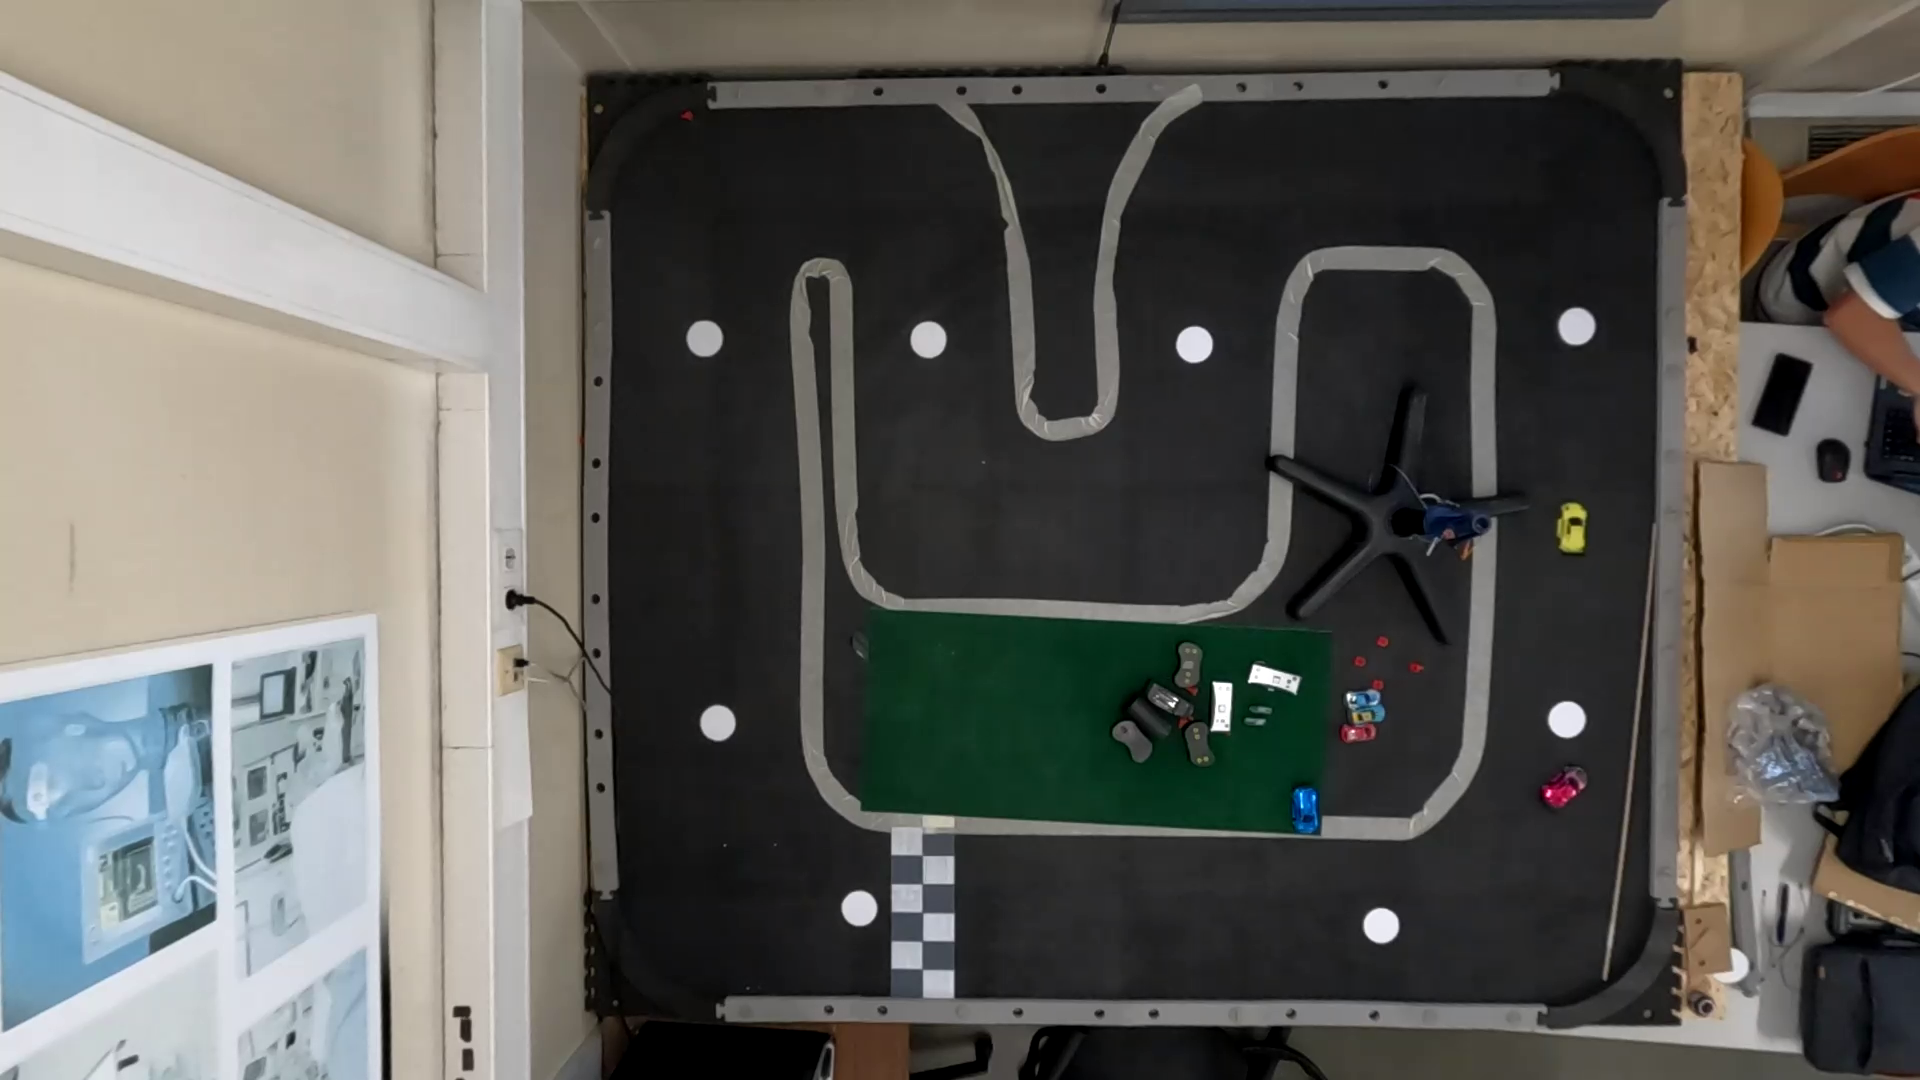
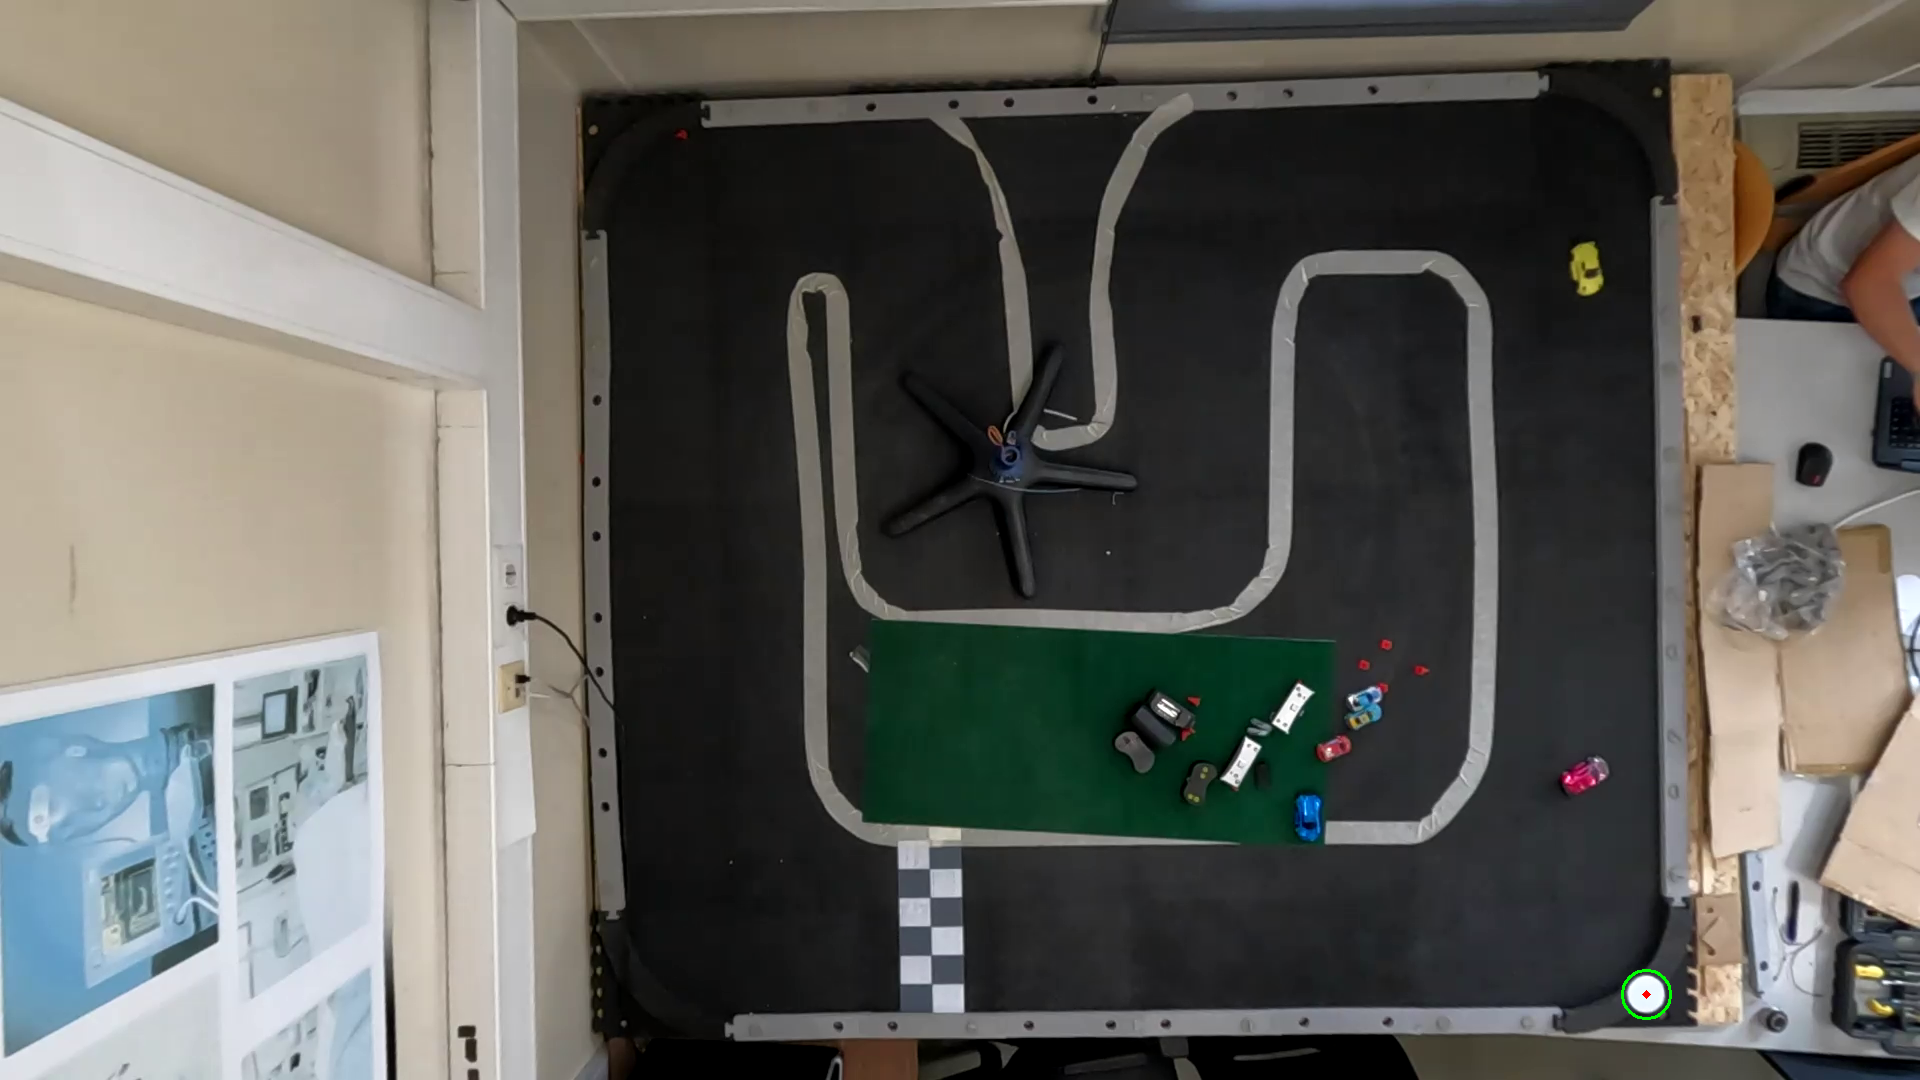
px2mm working in live video

diff --git a/src/Camera/camera.py b/src/Camera/camera.py
@@ -12,6 +12,7 @@ from utils.getCameras import get_available_cameras
 #pip install pygrabber==0.1
 from pygrabber.dshow_graph import FilterGraph
 from UDPsender import UDPSender
+from Trajectory import Trajectory
 
 class camera:
     def __init__(self, cameraConfig: str="camera", cameraName: str="GoPro Webcam", windowName: str="Frame") -> None:
@@ -333,45 +334,42 @@ class camera:
     def find_circle(self, img):
         # Convert image to gray
         gray = cv2.cvtColor(img, cv2.COLOR_BGR2GRAY)
-        #show_image("Gray image", gray)
 
         # Adaptive thresholding for better binary conversion
         img_bin = cv2.adaptiveThreshold(gray, 255, cv2.ADAPTIVE_THRESH_GAUSSIAN_C, cv2.THRESH_BINARY, 11, 2)
-        #show_image("Binary Image", img_bin)
 
         # Opening binary image to remove noise around the circles
         close_kernel = np.ones((3, 3), np.uint8)
         img_dilated = cv2.dilate(img_bin, close_kernel, iterations=1)
         img_closed = cv2.erode(img_dilated, close_kernel, iterations=1)
-        #show_image("Opened Image", img_closed)
 
         # Find circles using Hough Circle Transform
         circles = cv2.HoughCircles(
             img_closed, 
             cv2.HOUGH_GRADIENT, 
             dp=1.0, 
-            minDist=400, # Adjusted minimum distance between circles
+            minDist=100,  # Adjusted minimum distance between circles
             param1=50, 
-            param2=30, 
-            minRadius=10,
-            maxRadius=30
+            param2=25,  # Adjusted parameter for circle detection sensitivity
+            minRadius=15,
+            maxRadius=25
         )
 
         # List to store the centers of the circles
-        centers = np.array([])
+        centers = []
 
         # If circles are detected, draw them on the original image and store the centers
         if circles is not None:
             circles = np.uint16(np.around(circles))
             for i in circles[0, :]:
                 center = np.array([i[0], i[1]])
-                centers.append(center)
+                centers.append(center.tolist())  # Append as a list
                 # Draw the outer circle
-                cv2.circle(img, center, i[2], (0, 255, 0), 2)
+                cv2.circle(img, (i[0], i[1]), i[2], (0, 255, 0), 2)
                 # Draw the center of the circle
-                cv2.circle(img, center, 2, (0, 0, 255), 3)
-        
-        return img, centers
+                cv2.circle(img, (i[0], i[1]), 2, (0, 0, 255), 3)
+
+        return img, np.array(centers)
 #---------------------------------------------Display Live Frame-----------------------------------------
     
     def display(self):
@@ -394,66 +392,10 @@ class camera:
             cv2.putText(self.frame, fps, (7, 70), font, 3, (100, 255, 0), 3, cv2.LINE_AA) 
         #end-if-else
 
-        #--------------------------With ArUco Markers---------------------------------------------
-        '''matrix_reader = pd.read_csv('camera_matrixlinear.txt', delim_whitespace=True, header=None)
-        k = matrix_reader.to_numpy()
-        dist_reader = pd.read_csv('dist_coeffslinear.txt', delim_whitespace=True, header=None)
-        d = dist_reader.to_numpy()
-        aruco_dict=cv2.aruco.getPredefinedDictionary(cv2.aruco.DICT_6X6_250)
-
-        output, _ = self.pose_estimation(self.frame, aruco_dict, k, d)'''
-
-        #-----------------------With Color Detection-------------------------------------------------
         udpsender = UDPSender()
 
-        #Ratio of pixel to millimeter obtained in pixel2mm.py
-        px2mm = 0.6337807227544455
 
-        #Array of all the checkpoints obtained in test.py
-        checkPoints = np.array([(858, 906),
-                                (1380, 926),
-                                (1566, 720),
-                                (1576, 326),
-                                (1194, 344),
-                                (926, 338),
-                                (704, 338),
-                                (716, 722)])
-        
-        initial_center = None
-        center = None
-        
-        '''#loop to find the initial center
-        while initial_center is None:
-            _, initial_center = self.find_circle(self.frame)
-            if initial_center is not None:
-                center = initial_center
-                break
-            else:
-                print("Center not found, retrying...")
-        #print("Circle Center", center)'''
-        
-        centroids, res = self.detect_cars(self.frame)
-        
-        
-        '''#Difference between origin coordinates and car coordinates
-        centroids_origin_b = centroids[0] - center
-        centroids_origin_y = centroids[1] - center
-        centroids_origin_p = centroids[2] - center
-
-        #Ratio of pixel to millimeter obtained in pixel2mm.py
-        px2mm = 0.6337807227544455
-        
-        center_cm = (center/px2mm)/10 #centimeter
-        centroids_cm_b = (centroids_origin_b/px2mm)/10 #centimeter
-        centroids_cm_y = (centroids_origin_y/px2mm)/10
-        centroids_cm_p = (centroids_origin_p/px2mm)/10
-
-        print("Origin coords: ", center_cm)
-        print("Blue car: ", centroids_cm_b)
-        print("Yellow car: ", centroids_cm_y)
-        print("Pink car: ", centroids_cm_p)'''
-
-        cv2.imshow(self.windowName, res)
+        #cv2.imshow(self.windowName, self.frame)
 
         '''while(self.cap.isOpened()):
             udpsender.send_data("blue", blue_mm, 45.0)

diff --git a/src/Camera/test.py b/src/Camera/test.py
@@ -156,7 +156,7 @@ def detect_cars(image):
                 if moments["m00"] != 0:
                     cX = int(moments["m10"] / moments["m00"])
                     cY = int(moments["m01"] / moments["m00"])
-                    if 600 <= cX <= 1650 and cY > 85:  # Check if centroid is within the specified bounds
+                    if 600 <= cX <= 1650 and 85 <= cY <= 990:  # Check if centroid is within the specified bounds
                         centroid = (cX, cY)
                         max_contour_area = area
         
@@ -231,7 +231,7 @@ def find_circle(img):
         cv2.HOUGH_GRADIENT, 
         dp=1.0, 
         minDist=50, # Adjusted minimum distance between circles
-        param1=100, 
+        param1=50, 
         param2=25, 
         minRadius=10, # Set a reasonable minimum radius
         maxRadius=30 # Set a reasonable maximum radius
@@ -253,7 +253,7 @@ def find_circle(img):
     
     return img, centers
 
-image = cv2.imread("goProHero10/src/Camera/images/linear/img_0000.png")
+image = cv2.imread("goProHero10/src/Camera/images/linear/img_checkpoints.png")
 #image = crop_img(image, 600, 80, 1000, 1200)
 
 circles, center= find_circle(image)
@@ -262,14 +262,15 @@ centroids, circles = detect_cars(image)
 center = np.array(center)
 #centroids = np.array(centroids)
 
-cv2.circle(image, center[0], 2, (0, 0, 255), 3) #red
-cv2.circle(image, center[1], 2, (255, 0, 0), 3) #blue
-cv2.circle(image, center[2], 2, (0, 255, 0), 3) #green
-cv2.circle(image, center[3], 2, (0, 0, 0), 3)   #black
-cv2.circle(image, center[4], 2, (255, 255, 255), 3) #white
-cv2.circle(image, center[5], 2, (0, 222, 255), 3) #yellow
-cv2.circle(image, center[6], 2, (230, 0, 255), 3) #pink
-cv2.circle(image, center[7], 2, (230, 255, 0), 3) #baby blue
+cv2.circle(circles, center[0], 2, (0, 0, 255), 3) #red
+cv2.circle(circles, center[1], 2, (255, 0, 0), 3) #blue
+cv2.circle(circles, center[2], 2, (0, 255, 0), 3) #green
+cv2.circle(circles, center[3], 2, (0, 0, 0), 3)   #black
+cv2.circle(circles, center[4], 2, (255, 255, 255), 3) #white
+cv2.circle(circles, center[5], 2, (0, 222, 255), 3) #yellow
+cv2.circle(circles, center[6], 2, (230, 0, 255), 3) #pink
+cv2.circle(circles, center[7], 2, (230, 255, 0), 3) #baby blue
+cv2.circle(circles, center[8], 2, (0, 111, 255), 3) #orange
 
 
 #Difference between car coordinates and Origin coordinates
@@ -284,14 +285,15 @@ px2mm = 0.6337807227544455
 '''print("Blue car: ", centroids_cm[0])
 print("Yellow car: ", centroids_cm[1])
 print("Pink car: ", centroids_cm[2])'''
-circles_organized = np.array([center[5],
+circles_organized = np.array([center[6],
                               center[4],
-                              center[3],
-                              center[1],
-                              center[6],
-                              center[7],
+                              center[5],
+                              center[2],
                               center[0],
-                              center[2]])
+                              center[3],
+                              center[8],
+                              center[7],
+                              center[1]])
 
 print("Checkpoints:", circles_organized)
 

diff --git a/src/Camera/main.py b/src/Camera/main.py
@@ -108,6 +108,24 @@ goProCamera.windowName = desiredResolutionName + " | " + desiredFovName
 
 changeParamsFlag = False
 
+#Reference image for translation vector calculation
+img_ref = cv2.imread("goProHero10/src/Camera/images/linear/img_checkpoints.png")
+
+#Ratio of pixel to millimeter obtained in pixel2mm.py
+px2mm = 0.6337807227544455
+
+_, circle = goProCamera.find_circle(img_ref)
+checkpoint_organized = np.array([circle[6],
+                             circle[4],
+                             circle[5],
+                             circle[2],
+                             circle[0],
+                             circle[3],
+                             circle[8],
+                             circle[7]])
+
+t_new = np.array([0, 0])
+
 
 if (goProCamera.cap.isOpened() is False):
     logging.error("Unable to open the camera ...")
@@ -118,7 +136,46 @@ else:
     while(goProCamera.cap.isOpened()):
         #Update the image on the frame:
         goProCamera.display()
+
+        # Ensure the resolution and FOV are set to 1080p and linear
+        if desiredResolutionName == "1080p" and desiredFovName == "linear":
+            res, center = goProCamera.find_circle(goProCamera.frame)
         
+            # Check if a circle was detected
+            if len(center) == 0:
+                center = np.array([0, 0]) #if no circle was detected, put center as [0, 0]
+            
+            t = center - circle[1]
+            
+            if not np.array_equal(t, -np.array([1636, 986])):  # If a valid center was detected
+                t_new = t
+            
+            #Position of the origin
+            origin_coords = circle[1] + t_new
+
+            #Array of all the checkpoints with the translation vector
+            checkPoints = checkpoint_organized + t_new
+            
+            centroids, res = goProCamera.detect_cars(res)
+
+            #Difference between car coordinates and origin coordinates
+            centroids_origin_b = centroids[0] - origin_coords
+            centroids_origin_y = centroids[1] - origin_coords
+            centroids_origin_p = centroids[2] - origin_coords
+
+            origin_cm = (origin_coords/px2mm)/10 #centimeter
+            centroids_cm_b = (centroids_origin_b/px2mm)/10 #centimeter
+            centroids_cm_y = (centroids_origin_y/px2mm)/10
+            centroids_cm_p = (centroids_origin_p/px2mm)/10
+
+            print("Origin coords: ", origin_cm)
+            print("Blue car: ", centroids_cm_b)
+            print("Yellow car: ", centroids_cm_y)
+            print("Pink car: ", centroids_cm_p)
+
+        cv2.imshow(goProCamera.windowName, res)
+
+
         #Check the Key presses:
         if (cv2.waitKey(1) & 0xFF == ord('q')):
             break

diff --git a/src/Camera/FindCircle.py b/src/Camera/FindCircle.py
@@ -1,0 +1,77 @@
+import numpy as np
+import cv2
+
+def find_circle(img):
+    # Convert image to gray
+    gray = cv2.cvtColor(img, cv2.COLOR_BGR2GRAY)
+
+    # Adaptive thresholding for better binary conversion
+    img_bin = cv2.adaptiveThreshold(gray, 255, cv2.ADAPTIVE_THRESH_GAUSSIAN_C, cv2.THRESH_BINARY, 11, 2)
+
+    # Opening binary image to remove noise around the circles
+    close_kernel = np.ones((3, 3), np.uint8)
+    img_dilated = cv2.dilate(img_bin, close_kernel, iterations=1)
+    img_closed = cv2.erode(img_dilated, close_kernel, iterations=1)
+
+    # Find circles using Hough Circle Transform
+    circles = cv2.HoughCircles(
+        img_closed, 
+        cv2.HOUGH_GRADIENT, 
+        dp=1.0, 
+        minDist=100,  # Adjusted minimum distance between circles
+        param1=50, 
+        param2=25,  # Adjusted parameter for circle detection sensitivity
+        minRadius=10,
+        maxRadius=30
+    )
+
+    # List to store the centers of the circles
+    centers = []
+
+    # If circles are detected, draw them on the original image and store the centers
+    if circles is not None:
+        circles = np.uint16(np.around(circles))
+        for i in circles[0, :]:
+            center = np.array([i[0], i[1]])
+            centers.append(center.tolist())  # Append as a list
+            # Draw the outer circle
+            cv2.circle(img, (i[0], i[1]), i[2], (0, 255, 0), 2)
+            # Draw the center of the circle
+            cv2.circle(img, (i[0], i[1]), 2, (0, 0, 255), 3)
+    
+    circle_center = np.array([centers])
+
+    return img, circle_center
+
+def translation_vector(current_img, ref_img):
+     ref_img = cv2.imread("goProHero10/src/Camera/images/linear/img_ref.png")
+     
+     _ , center_ref = find_circle(ref_img)
+
+     if len(center_ref) == 0:
+         raise ValueError("No circles found in the reference image")
+     
+     circle_pos_ref = center_ref[0]
+
+     current_img = cv2.imread("goProHero10/src/Camera/images/linear/img_ref.png")
+     _, center_curr = find_circle(current_img)
+
+     if len(center_curr) == 0:
+         raise ValueError("No circles found in the current image")
+     
+     circle_pos_curr = center_curr[0]
+
+     t = np.array(circle_pos_curr) - np.array(circle_pos_ref)
+
+     return t
+    
+     
+
+
+
+ref = cv2.imread("goProHero10/src/Camera/images/linear/img_ref.png")
+curr = cv2.imread("goProHero10/src/Camera/images/linear/img_ref.png")
+
+t = translation_vector(curr, ref)
+
+print("Translation vector: ", t)

diff --git a/src/Camera/Trajectory.py b/src/Camera/Trajectory.py
@@ -17,8 +17,8 @@ class Trajectory:
 
         self.next_circle_index = 0
         self.last_distance = 0.0
-        self.point_car_on_trajectory = np.array([0, 0, 0])
-        self.point_car_on_trajectory_short_distance = np.array([0, 0, 0])
+        self.point_car_on_trajectory = np.array([])
+        self.point_car_on_trajectory_short_distance = np.array([])
         self.num_laps = 0
         self.new_lap = True
 
@@ -35,7 +35,7 @@ class Trajectory:
         return angle_degrees
 
 
-    def shortest_point_to_curve(self, curve_point1 = np.array([0, 0, 0]), curve_point2 = np.array([0, 0, 0]), car_position = np.array([0, 0, 0])):
+    def shortest_point_to_curve(self, curve_point1 = np.array([]), curve_point2 = np.array([]), car_position = np.array([])):
         center = np.array([0, 0, 0])
         final_point1 = np.array([0, 0, 0])
         final_point2 = np.array([0, 0, 0])
@@ -146,10 +146,10 @@ class Trajectory:
         if not self.new_lap and self.last_short_dist_index == reset_arr:
             self.new_lap = True
 
-    def get_distance_to_trajectory(self, car_position = np.array([0, 0, 0])):
+    def get_distance_to_trajectory(self, car_position = np.array([])):
         return np.linalg.norm(self.point_car_on_trajectory_short_distance - car_position)
     
-    def checkReward(self, car_position = np.array([0, 0, 0])):
+    def checkReward(self, car_position = np.array([])):
         minDist = float('inf')
 
         # Identify where the car is on the track

diff --git a/src/Camera/goProHero10.py b/src/Camera/goProHero10.py
@@ -160,7 +160,7 @@ if __name__ == "__main__":
         #------------------------
         #Adjust Resolution + Fov
         desiredResolution = gopro.resolutions["1080p"]
-        desiredFov = gopro.fovs["wide"]
+        desiredFov = gopro.fovs["linear"]
         
         gopro.startWebcam["params"]["res"] = desiredResolution
         gopro.startWebcam["params"]["fov"] = desiredFov
